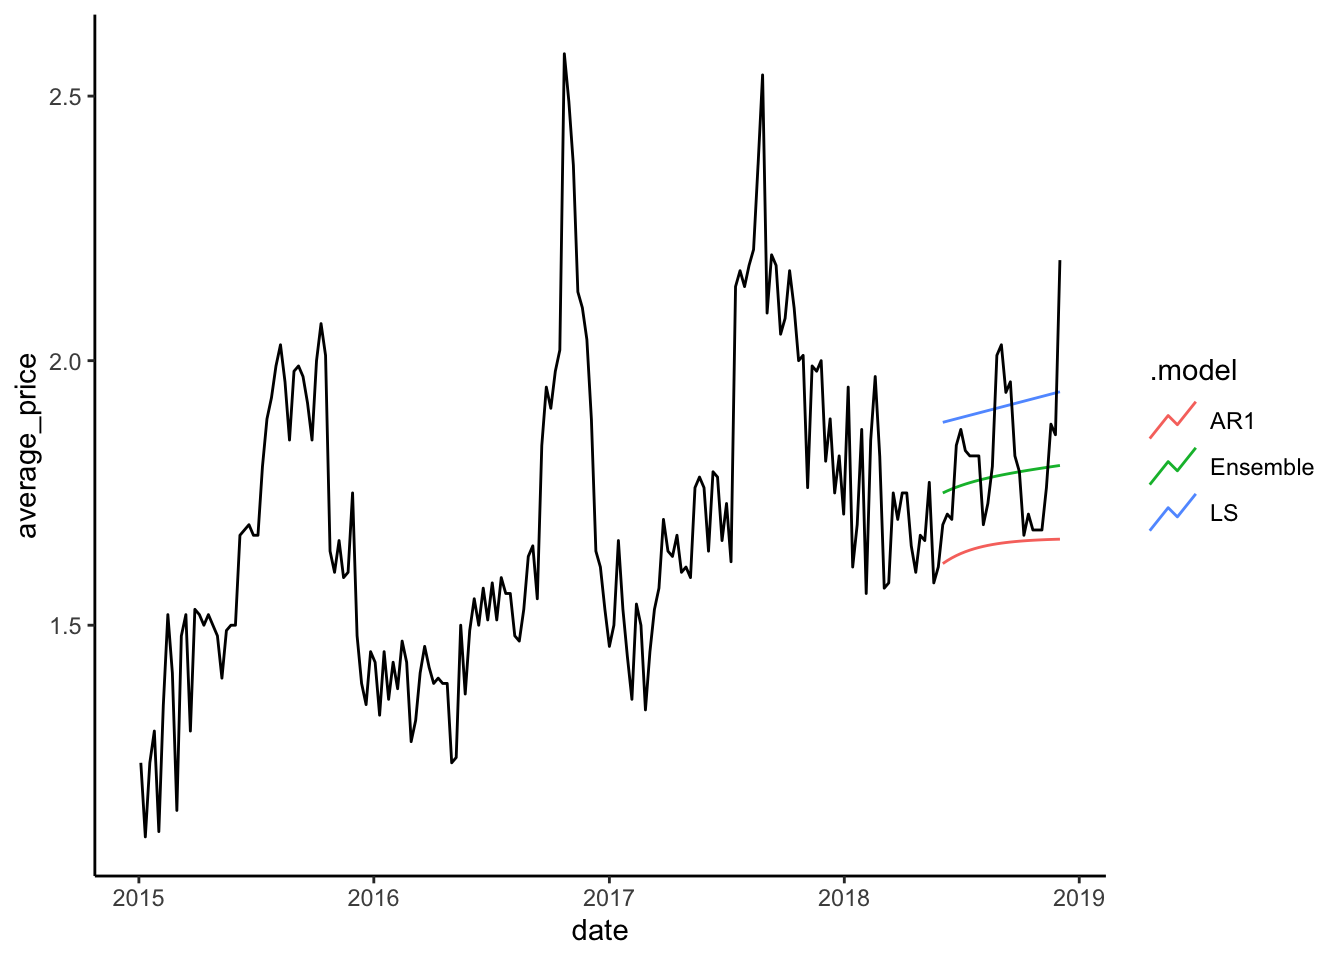
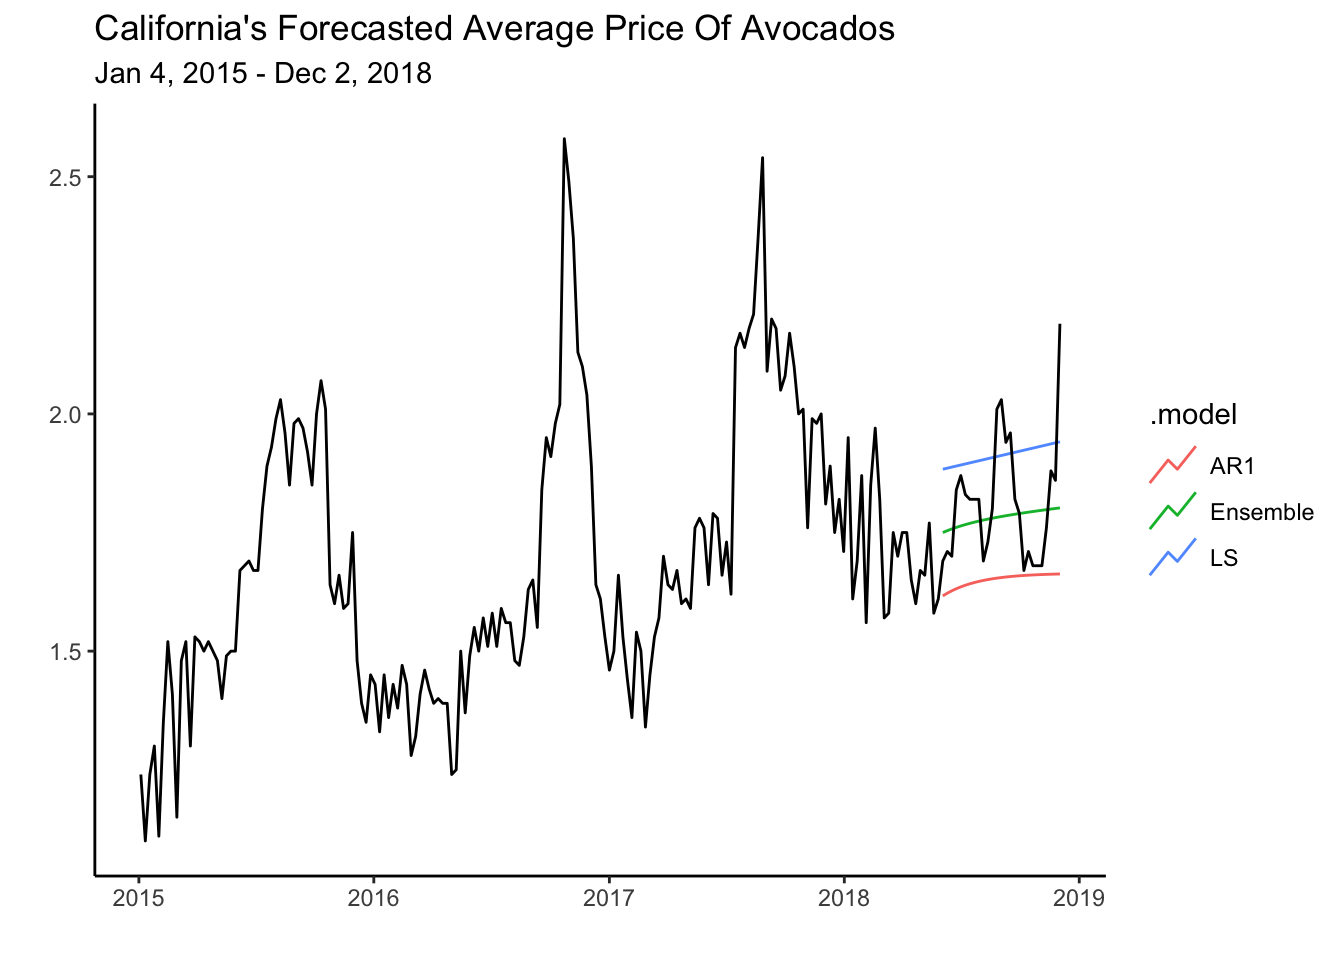
changes to ensemble

diff --git a/docs/ARIMA.html b/docs/ARIMA.html
@@ -3099,12 +3099,15 @@ We can generate a white noise process by using the normal distribution with a me
 <div class="cell">
 <div class="sourceCode cell-code" id="cb29"><pre class="sourceCode r code-with-copy"><code class="sourceCode r"><span id="cb29-1"><a href="#cb29-1" aria-hidden="true" tabindex="-1"></a>fit2 <span class="sc">%&gt;%</span> <span class="fu">select</span>(AR1,LS,Ensemble) <span class="sc">%&gt;%</span></span>
 <span id="cb29-2"><a href="#cb29-2" aria-hidden="true" tabindex="-1"></a>  <span class="fu">forecast</span>(<span class="at">h=</span><span class="dv">27</span>) <span class="sc">%&gt;%</span> <span class="fu">autoplot</span>(<span class="at">level=</span><span class="cn">NULL</span>) <span class="sc">+</span></span>
-<span id="cb29-3"><a href="#cb29-3" aria-hidden="true" tabindex="-1"></a>  <span class="fu">autolayer</span>(cali,average_price) <span class="sc">+</span> <span class="fu">theme_classic</span>()</span></code><button title="Copy to Clipboard" class="code-copy-button"><i class="bi"></i></button></pre></div>
+<span id="cb29-3"><a href="#cb29-3" aria-hidden="true" tabindex="-1"></a>  <span class="fu">autolayer</span>(cali,average_price) <span class="sc">+</span> <span class="fu">theme_classic</span>() <span class="sc">+</span></span>
+<span id="cb29-4"><a href="#cb29-4" aria-hidden="true" tabindex="-1"></a>  <span class="fu">labs</span>(<span class="at">y=</span><span class="st">""</span>, <span class="at">title=</span> <span class="st">"California's Forecasted Average Price Of Avocados"</span>,</span>
+<span id="cb29-5"><a href="#cb29-5" aria-hidden="true" tabindex="-1"></a>       <span class="at">subtitle =</span> <span class="st">"Jan 4, 2015 - Dec 2, 2018"</span>,</span>
+<span id="cb29-6"><a href="#cb29-6" aria-hidden="true" tabindex="-1"></a>       <span class="at">x=</span><span class="st">""</span>)</span></code><button title="Copy to Clipboard" class="code-copy-button"><i class="bi"></i></button></pre></div>
 <div class="cell-output-display">
 <p><img src="ARIMA_files/figure-html/unnamed-chunk-35-1.png" class="img-fluid" width="672"></p>
 </div>
 </div>
-<p>We can now see how the ensemble fits the test data better than each model individually. Let’s confirm the accuracy of the ensemble to the test set by calculating some measures.</p>
+<p>The plot illustrates how the ensemble fits the test data better than each model individually. Let’s confirm the accuracy of the ensemble to the test set by calculating some measures.</p>
 <div class="cell">
 <div class="sourceCode cell-code" id="cb30"><pre class="sourceCode r code-with-copy"><code class="sourceCode r"><span id="cb30-1"><a href="#cb30-1" aria-hidden="true" tabindex="-1"></a>fit2 <span class="sc">%&gt;%</span> <span class="fu">forecast</span>(<span class="at">h=</span><span class="dv">27</span>) <span class="sc">%&gt;%</span> <span class="fu">accuracy</span>(cali)</span></code><button title="Copy to Clipboard" class="code-copy-button"><i class="bi"></i></button></pre></div>
 </div>
